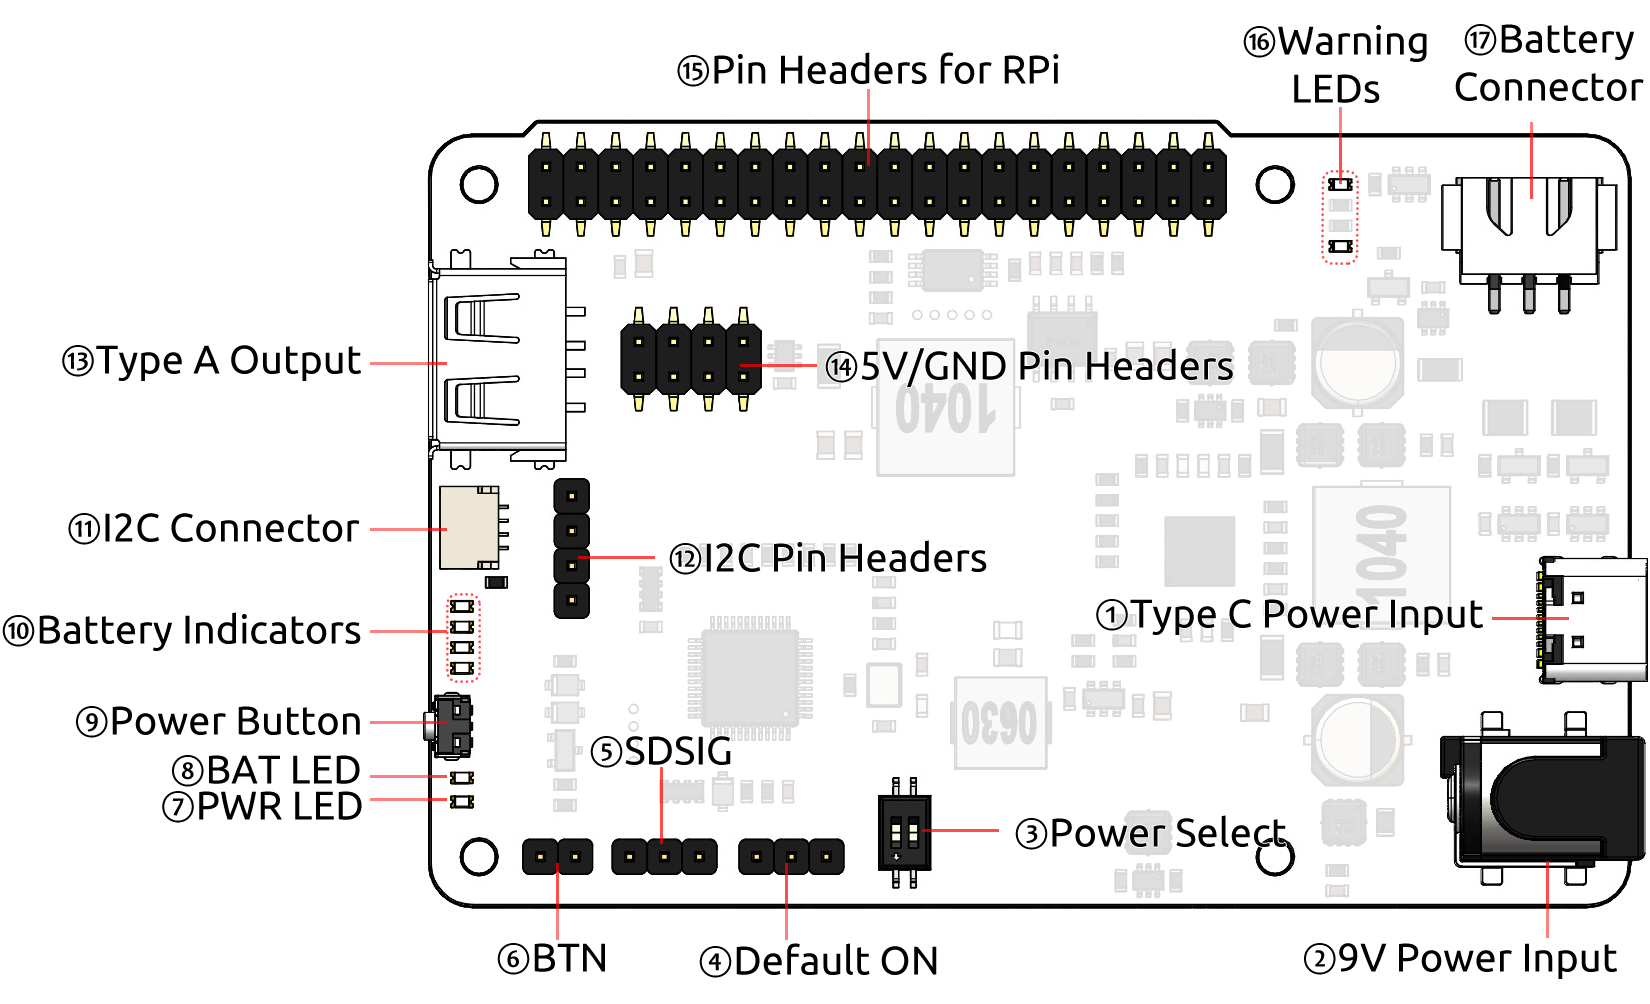
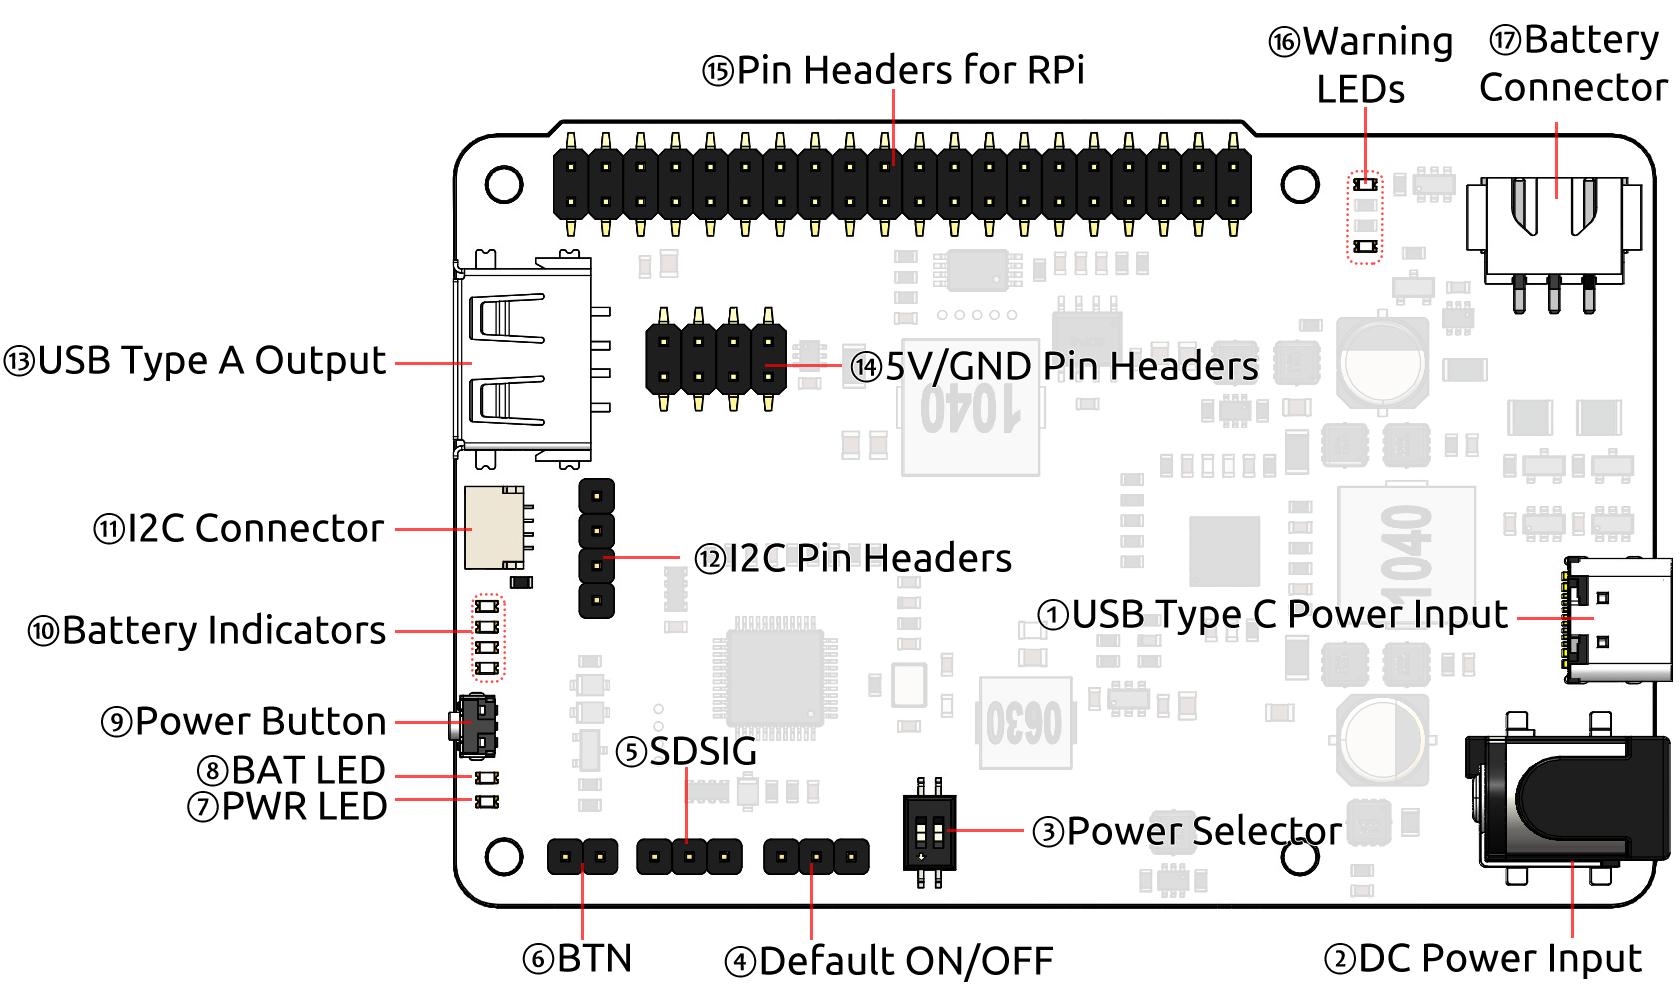
Optimize the description for Pipower 5 Hat

diff --git a/docs/source/pipower_hat.rst b/docs/source/pipower_hat.rst
@@ -9,7 +9,7 @@ Overview
 
 
 1. **USB Type-C Power Input**: External power input for supplying power to the Raspberry Pi and charging the battery. Supports USB PD protocol, 5V–15V.
-2. **DC 5.5-2.1 Power Input**: External power input for powering the Raspberry Pi and charging the battery. Supports 5V–15V.
+2. **DC Power Input**: DC Power Jack, 5.5mm Outer Diameter, 2.1mm Inner Diameter. External power input for powering the Raspberry Pi and charging the battery. Supports 5V–15V.
 3. **Power Input Selector Switch**: Toggles between available power input sources. Details at: :ref:`power_input`
 4. :ref:`cap_onoff`: Determines whether the device powers on automatically when external power is connected while the device is off.
 5. :ref:`cap_sdsig` **(Shutdown Signal)**: GPIO26 short-circuit connection for Raspberry Pi shutdown signaling. After configuring the Raspberry Pi's shutdown signal, it informs the onboard microcontroller to cut off power during shutdown.
@@ -248,7 +248,7 @@ Four onboard LEDs indicate the battery level and charging status.
 * **1 LED lit**: 20%< Battery <40%
 * **First LED flashing**: Battery <20%
 * **LEDs light up sequentially in a cycle**: Charging in progress
-* **Middle two LEDs flashing**: WAwaiting shutdown signal
+* **Middle two LEDs flashing**: Waiting shutdown signal
 * **All LEDs off**: Unpowered or in sleep mode
 
 .. _battery_connector:
